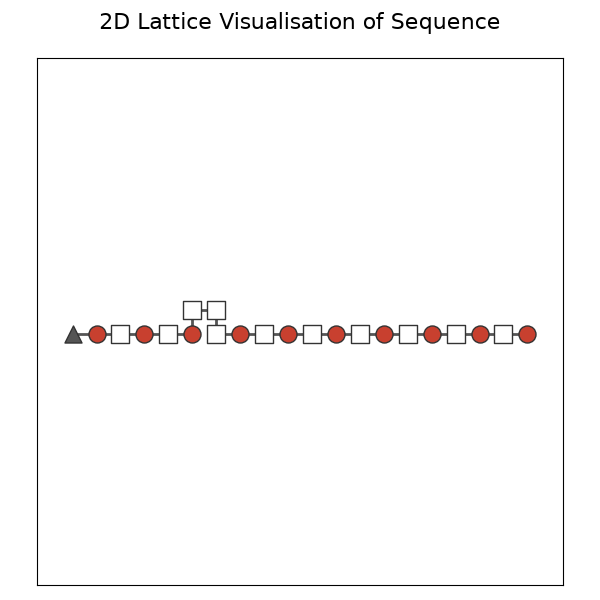
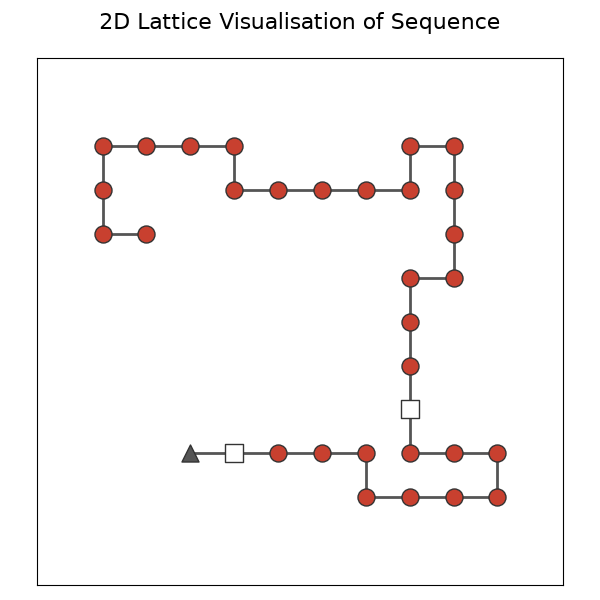
Added fold()

Changed region(s): [[0.09, 0.21, 0.9, 0.84]]

diff --git a/main.py b/main.py
@@ -1,0 +1,97 @@
+from Visualisation2D import visualise_sequence
+from word_tree import words_path, extract_words
+from word_processing import words
+
+import random
+import argparse
+
+DIRECTIONS = [
+    (1, 0),
+    (0, 1),
+    (-1, 0),
+    (0, -1)
+]
+
+def turn_direction(direction, turn):
+    dx, dy = direction
+    if turn == "F":
+        return direction
+    elif turn == "L":
+        return (-dy, dx)
+    elif turn == "R":
+        return (dy, -dx)
+    
+    raise ValueError(f"Invalid turn: {turn}. Must be 'L', 'R', or 'F'.")
+"""
+Recursively called to generate HP path
+
+direction - indicates the direction looking forward, and is a tuple of (x, y) where x and y are either -1, 0, or 1. The initial direction is (1, 0), which means looking to the right.
+"""
+def fold(turns, sequence=None, direction=(1, 0)):
+
+    if sequence is None:
+        sequence = [(0, 0, "S"), (1, 0, "P")]
+
+    if not turns:
+        return sequence
+
+    occupied = {(x, y) for x, y, _ in sequence}
+
+    # First try the requested move
+    preferred_direction = turn_direction(direction, turns[0])
+
+    directions = [preferred_direction]
+
+    # Then alternative directions in random order
+    alternatives = [d for d in DIRECTIONS if d != preferred_direction]
+    random.shuffle(alternatives)
+
+    directions.extend(alternatives)
+
+    for d in directions:
+
+        x = sequence[-1][0] + d[0]
+        y = sequence[-1][1] + d[1]
+
+        if (x, y) in occupied:
+            continue
+
+        new_sequence = sequence.copy()
+
+        if d == preferred_direction:
+            # Valid turn, consume instruction
+            new_sequence.append((x, y, "H"))
+
+            result = fold(turns[1:],new_sequence,d)
+
+        else:
+            # Alternative move, insert P and retry same turn
+            new_sequence.append((x, y, "P"))
+
+            result = fold(turns,new_sequence,d)
+
+        if result is not None:
+            return result
+
+    # No possible moves
+    return None
+
+
+if __name__ == "__main__":
+    ap = argparse.ArgumentParser(description=__doc__,
+                                 formatter_class=argparse.RawTextHelpFormatter)
+    ap.add_argument("-w1", "--word1", required=True, help="First word to encoding")
+    ap.add_argument("-w2", "--word2", required=True, help="Second word to encoding")
+    ap.add_argument("-w3", "--word3", required=True, help="Third word to encoding")
+
+    args = ap.parse_args()
+
+    words = extract_words()
+    for word in [args.word1, args.word2, args.word3]:
+        if word not in words:
+            raise ValueError(f"Word '{word}' not found in the word list.")
+    
+    print("Encoding words:", args.word1, args.word2, args.word3)
+    print(words_path(words, args.word1, args.word2, args.word3))
+    print(fold(words_path(words, args.word1, args.word2, args.word3)))
+    visualise_sequence(fold(words_path(words, args.word1, args.word2, args.word3)))

diff --git a/word_tree.py b/word_tree.py
@@ -8,10 +8,10 @@ def extract_words():
 word_exhaust = extract_words()
 def rec_tree(depth):
     if depth == 0:
-        global words_exhaust
-        if len(words_exhaust) > 0:
-            word = words_exhaust[0]
-            words_exhaust = words_exhaust[1:]
+        global word_exhaust
+        if len(word_exhaust) > 0:
+            word = word_exhaust[0]
+            word_exhaust = word_exhaust[1:]
             return [word]
         return []
     return [rec_tree(depth-1), rec_tree(depth-1), rec_tree(depth-1)]
@@ -47,4 +47,4 @@ def words_path(words, w1, w2, w3):
     turns = path_to_turns(p1) + path_to_turns(p2) + path_to_turns(p3)
     return turns
 
-path = words_path(extract_words, "zygodactyl", "zygomorphous", "zygotene")
+#path = words_path(extract_words, "zygodactyl", "zygomorphous", "zygotene")

diff --git a/word_processing.py b/word_processing.py
@@ -78,5 +78,5 @@ def words_path(words, w1, w2, w3):
     turns = path_to_turns(p1) + path_to_turns(p2) + path_to_turns(p3)
     return turns
 
-path = words_path(words_list, "adversely", "aeriform", "alertly")
-print(path)
+#path = words_path(words_list, "adversely", "aeriform", "alertly")
+#print(path)
